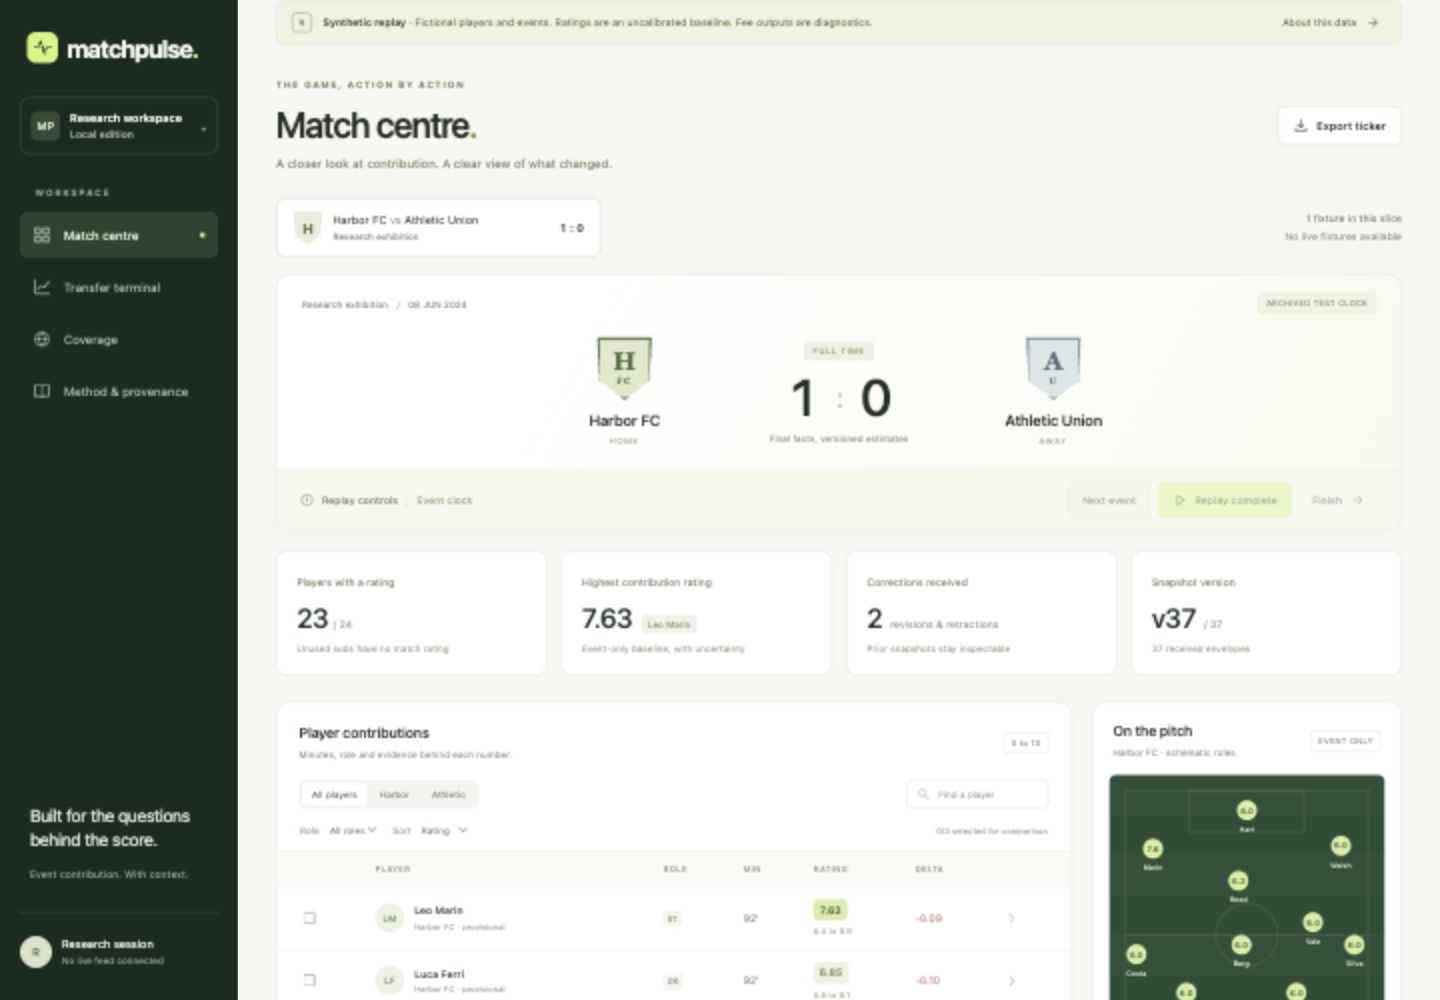
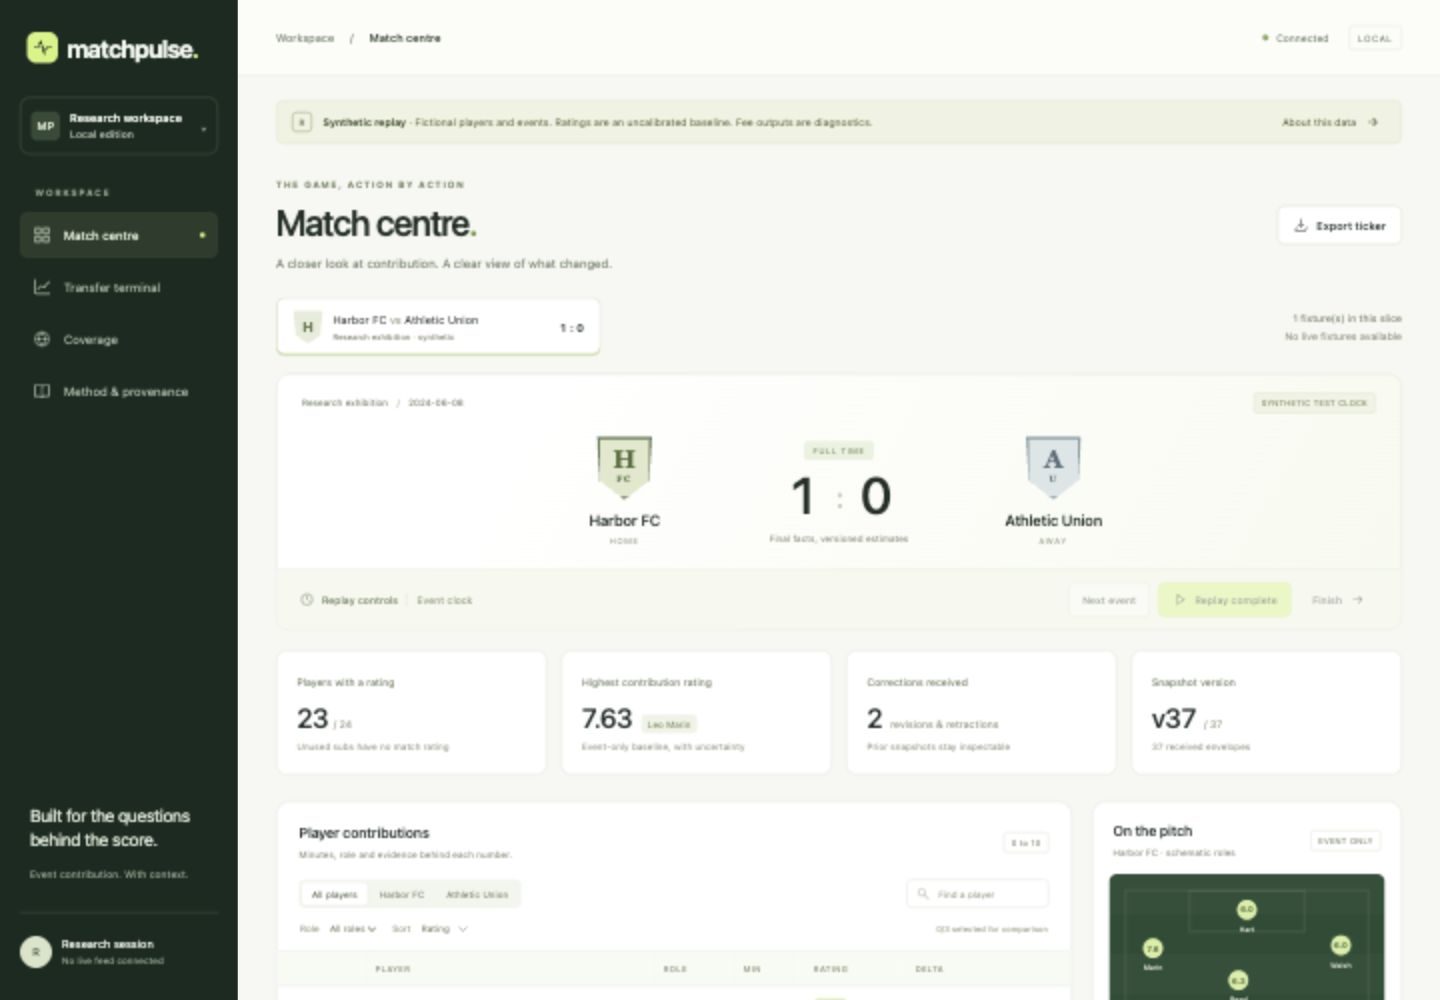
Document the runnable terminal and observed browser behavior without full-release claims

diff --git a/README.md b/README.md
@@ -1,7 +1,41 @@
 # Matchpulse
 
-An event journal, individual football rating engine, and conditional transfer research terminal. Archived replay and synthetic diagnostics are explicitly separated from licensed live operation.
+A local football contribution and transfer research terminal. Python owns the original numerical core, Go serves HTTP and resumable SSE, SQLite preserves event/revision history, and TypeScript renders the interface.
 
-This project is under active construction. No live data or Europe-wide coverage is claimed. See [build status](docs/BUILD_STATUS.md).
+**This is a runnable diagnostic build. The full project brief is incomplete.** No actual licensed live feed, large linked research corpus, empirical model calibration or Europe-wide roster completeness is claimed. [Build status and remaining gates](docs/BUILD_STATUS.md).
 
-The implementation is independent of Touchline. The rating quantity is a versioned summary of event contribution, not an objective measure of player quality. Conditional fee estimates are not quoted market prices.
+```sh
+make bootstrap
+make build
+make test
+make live-demo
+```
+
+Open `http://127.0.0.1:8777`. Requires Python 3.13+, Go 1.25 and Node 24. Graphviz is needed for `make docs`. No external feed, paid service or downloaded model is needed for the authored replay. Linux CI exercises the same Python/Go integration.
+
+![Running Matchpulse terminal with explicitly synthetic replay](docs/screenshots/match-desktop.png)
+
+The screenshot is from the functioning local application with fictional players and events. It is not an actual live fixture.
+
+Select Finish, then Next event. Inspect the goalkeeper save, dismissal, VAR reversal and revised role. Compare saved v28 with v30, then inspect v37 full time. Transfer terminal publishes 23 eligible fictional estimates and displays the later fictional sale separately. CSV retains mode, target, model ID and known-at time. [Complete walkthroughs](docs/WALKTHROUGHS.md).
+
+The implemented core includes validated multi-clock envelopes, audited identity/registration assertions, append-only journal and snapshots, retractions, sparse exposure, post-match estimate versions, unavailable states, exactly-once derived publication within one transaction, durable reconnect and bounded worker restart. It is independent of Touchline. The reference reducer replays only the affected fixture and is not yet an optimized incremental production engine.
+
+Original masked recurrent and dense distributional models train from random initialization in a separate synthetic diagnostic. Analytic gradients, censoring likelihoods and held-out inference have independent checks. These learned diagnostics are not promoted into served actual-player estimates. The display model and its uncertainty band remain explicitly uncalibrated. A conditional fee estimate is not a quoted price or an observed transaction.
+
+```sh
+make demo
+make train RUN_ID=training-001
+python3 -m matchpulse.verify_training evidence/training-001
+make acceptance RUN_ID=engineering-001 PROFILE=diagnostic
+make verify EVIDENCE=evidence/engineering-001
+make negative-controls EVIDENCE=evidence/engineering-001 RUN_ID=controls-001
+make stress RUN_ID=http-001
+make valuation-audit INPUT=fixtures/official-deals.json
+```
+
+Use a new run ID each time. The engineering pilot measured 1.3653 ms p95 backend processing over 592 synthetic deliveries. The concurrent loopback pilot measured 25.4123 ms p95 roundtrip with 16 callers and eight reconnecting clients. These are short local diagnostics, not upstream freshness or full acceptance. The fee learner lost to its baseline in one retained seed. [Methods, source identities and limits](docs/BENCHMARKS.md).
+
+`make acceptance RUN_ID=full-001 PROFILE=full`, `make data` and `make release` return nonzero while required acquisition and research work is unavailable. They never silently substitute a smaller successful workload. Operator-authorized local archive files can use [the importer](scripts/import-archive.py); external source rights do not inherit the code license.
+
+[Architecture and 12 editable diagrams](docs/ARCHITECTURE.md) · [Schema and numerical contracts](docs/CONTRACTS.md) · [Model card](docs/MODEL_CARD.md) · [Source rights](docs/DATA_RIGHTS.md) · [Evidence format](docs/ARTIFACTS.md) · [Reproduction](docs/REPRODUCIBILITY.md) · [Recovery](docs/RECOVERY.md) · [Claim index](docs/CLAIMS.md) · [Architecture decisions](docs/adr/001-storage.md)

diff --git a/docs/BROWSER_QA.md b/docs/BROWSER_QA.md
@@ -1,0 +1,23 @@
+# Browser diagnostic observations
+
+Executed on the local Go/Python/SQLite service on 2026-11-11 using the real TypeScript application. No production route was replaced with mock data. The authored fixture is explicitly synthetic throughout the UI.
+
+| Journey | Observed result |
+| --- | --- |
+| Finish replay | Full time, 1 to 0, v37, 23 rated appearances, one unused player unrated |
+| Advance after match | Separate EUR 19 million fictional permanent sale, EUR 2 million add-ons separate |
+| Keeper inspection | +0.2100 contribution reason from save-1 |
+| Prior version v28 | Provisional score 1 to 0 |
+| Corrected version v30 | Score 0 to 0 and visible VAR reason |
+| Role revision | Adam Vale CM after the authored tactical correction |
+| Compare two players | Comparison selection and individual contributions visible |
+| Empty search | Explicit no-matching-players state |
+| Ticker search | Leo Marin conditional estimate differs from observed transaction |
+| Keyboard inspect and Escape | Dialog closes; focus returns to a button for demo-p9 |
+| Reload and reconnect | Saved final state and stream sequence retained |
+| Desktop 1440 by 1000 | Scoreboard, metrics, player table and schematic pitch verified |
+| Mobile 390 by 844 | Document scrollWidth 390, no page overflow, responsive scoreboard verified |
+| Initial constrained view | A clipped scoreboard was found and corrected before final capture |
+| Async drawer close | A focus race was found; stale requests now abort and cannot rerender a closed dialog |
+
+Screenshots: [desktop match](screenshots/match-desktop.png), [desktop ticker](screenshots/ticker-desktop.png), [player evidence](screenshots/player-evidence.png), [mobile match](screenshots/match-mobile.png). These observations do not establish full assistive-technology accessibility, actual live freshness, or production hosting. API teardown, oversized input, cross-origin rejection, CSV contents and actual worker restart are separately exercised by the Go integration tests.
